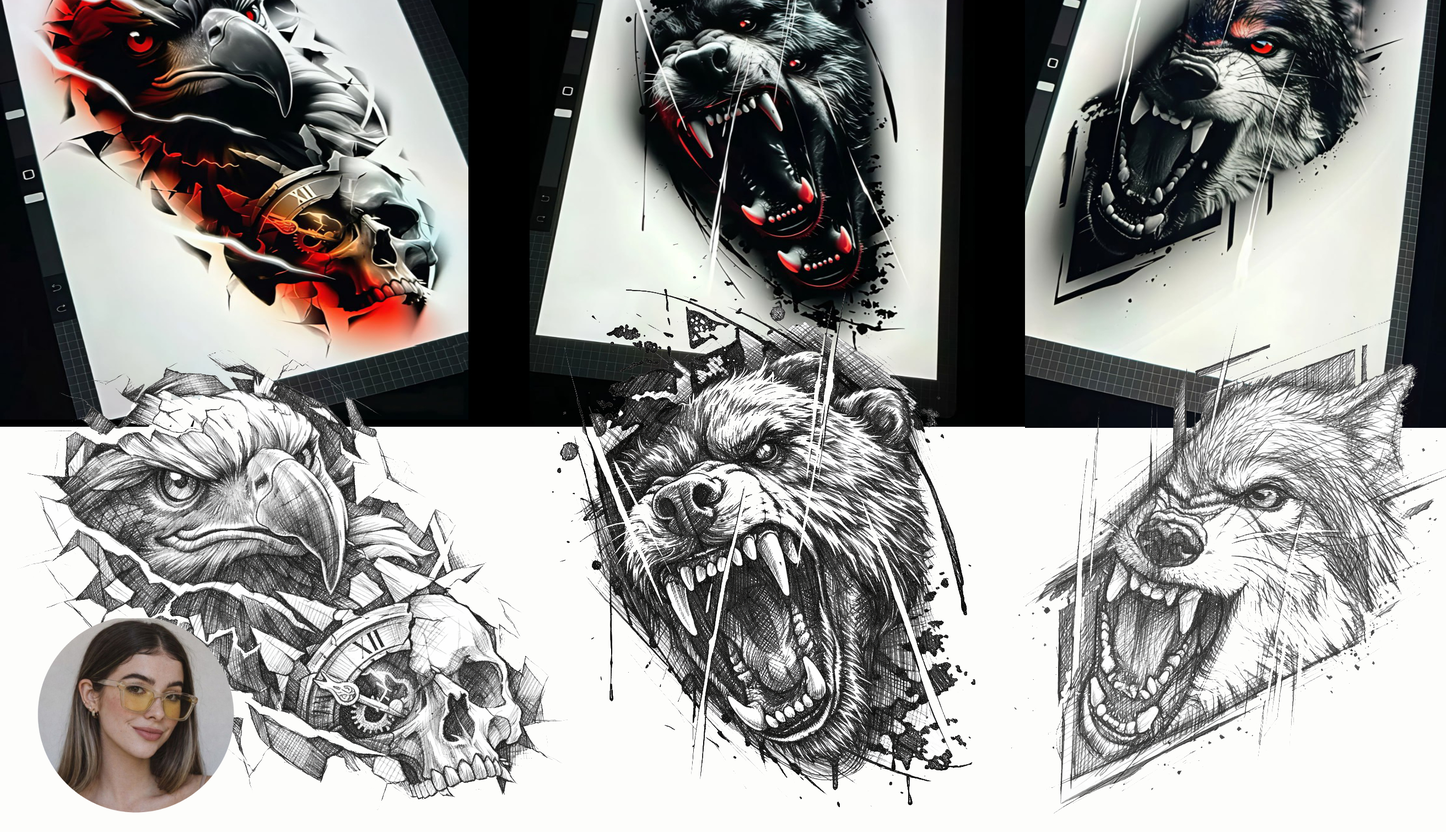
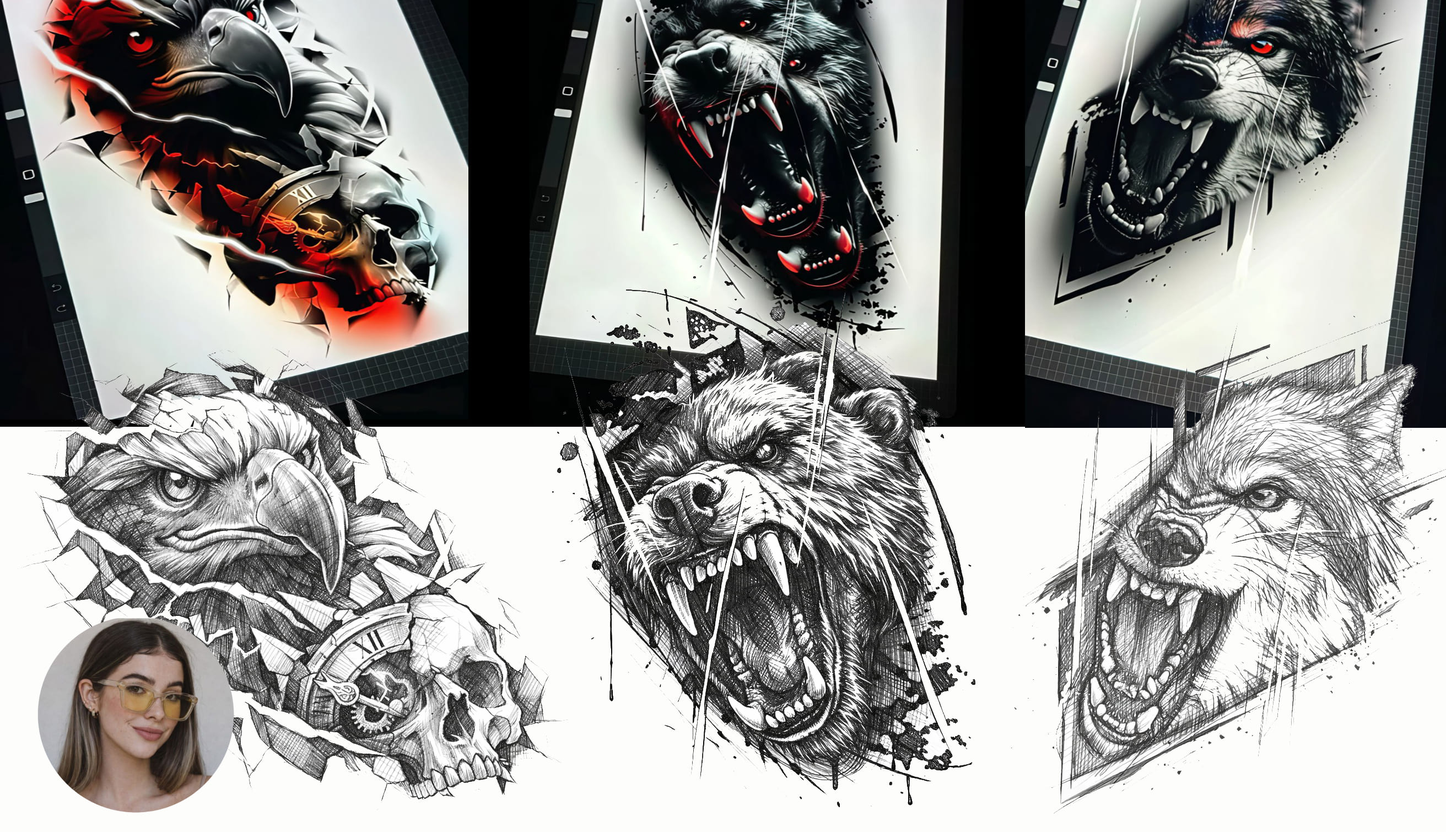
3123

Changed region(s): [[0.5312, 0.5918, 0.5625, 0.6229], [0.5, 0.4672, 0.5312, 0.4983]]

diff --git a/index.html b/index.html
@@ -165,37 +165,6 @@
       });
     </script>
 
-    <!-- Handmade Section -->
-    <section class="section" style="padding: 60px 0; background: #0a0a0a;">
-      <div class="container" data-aos="fade-up" data-aos-delay="100">
-        <div class="row align-items-center justify-content-center">
-          <div class="col-lg-6">
-            <div class="handmade-image-wrapper">
-              <img src="assets/img/gallery/123123123.jpg" alt="Ручная работа эскиза" class="img-fluid rounded" style="width: 100%; height: auto; box-shadow: 0 20px 40px rgba(0,0,0,0.5);" draggable="false" oncontextmenu="return false;" onselectstart="return false;" ondragstart="return false;">
-            </div>
-          </div>
-          <div class="col-lg-6">
-            <div class="handmade-content">
-              <h3 style="color: #fff; font-size: 2rem; margin-bottom: 20px; font-weight: 700;">Каждая деталь — ручная работа</h3>
-              <p style="color: #ccc; font-size: 1.1rem; line-height: 1.8; margin-bottom: 25px;">
-                Никаких нейросетей и генераторов. Каждый эскиз рисуется от руки — от первой линии до финального штриха. Я прорабатываю каждую деталь, каждый фрагмент, чтобы дизайн был гармоничным и точно соответствовал твоей идее.
-              </p>
-              <div style="display: flex; gap: 15px; flex-wrap: wrap;">
-                <div style="flex: 1; min-width: 200px;">
-                  <div style="color: #fff; font-weight: 600; margin-bottom: 8px;">✓ 100% ручная работа</div>
-                  <div style="color: #999; font-size: 0.9rem;">Без использования ИИ и генераторов</div>
-                </div>
-                <div style="flex: 1; min-width: 200px;">
-                  <div style="color: #fff; font-weight: 600; margin-bottom: 8px;">✓ Продуманные детали</div>
-                  <div style="color: #999; font-size: 0.9rem;">Каждый элемент согласован с общим стилем</div>
-                </div>
-              </div>
-            </div>
-          </div>
-        </div>
-      </div>
-    </section>
-
     <!-- Gallery Section -->
     <section class="section" style="padding: 50px 0;">
       <div class="container" data-aos="fade-up" data-aos-delay="80">
@@ -338,6 +307,37 @@
     
   </main>
 
+  <!-- Handmade Section -->
+  <section class="section" style="padding: 60px 0; background: #0a0a0a;">
+    <div class="container" data-aos="fade-up" data-aos-delay="100">
+      <div class="row align-items-center justify-content-center">
+        <div class="col-lg-6">
+          <div class="handmade-image-wrapper">
+            <img id="handmadeImage" src="" alt="Ручная работа эскиза" class="img-fluid rounded" style="width: 100%; height: auto; box-shadow: 0 20px 40px rgba(0,0,0,0.5);" draggable="false" oncontextmenu="return false;" onselectstart="return false;" ondragstart="return false;">
+          </div>
+        </div>
+        <div class="col-lg-6">
+          <div class="handmade-content">
+            <h3 style="color: #fff; font-size: 2rem; margin-bottom: 20px; font-weight: 700;">Каждая деталь — ручная работа</h3>
+            <p style="color: #ccc; font-size: 1.1rem; line-height: 1.8; margin-bottom: 25px;">
+              Никаких нейросетей и генераторов. Каждый эскиз рисуется от руки — от первой линии до финального штриха. Я прорабатываю каждую деталь, каждый фрагмент, чтобы дизайн был гармоничным и точно соответствовал твоей идее.
+            </p>
+            <div style="display: flex; gap: 15px; flex-wrap: wrap;">
+              <div style="flex: 1; min-width: 200px;">
+                <div style="color: #fff; font-weight: 600; margin-bottom: 8px;">✓ 100% ручная работа</div>
+                <div style="color: #999; font-size: 0.9rem;">Без использования ИИ и генераторов</div>
+              </div>
+              <div style="flex: 1; min-width: 200px;">
+                <div style="color: #fff; font-weight: 600; margin-bottom: 8px;">✓ Продуманные детали</div>
+                <div style="color: #999; font-size: 0.9rem;">Каждый элемент согласован с общим стилем</div>
+              </div>
+            </div>
+          </div>
+        </div>
+      </div>
+    </div>
+  </section>
+
   <footer id="footer" class="footer">
 
     <div class="container">
@@ -444,6 +444,12 @@
   <script>
     window.addEventListener('load', function() {
       setTimeout(function() {
+        // Загружаем изображение с задержкой 2 секунды
+        const handmadeImage = document.getElementById("handmadeImage");
+        if (handmadeImage) {
+          handmadeImage.src = "assets/img/gallery/123123123.jpg";
+        }
+        
         // Top.Mail.Ru counter - DISABLED for performance
         /*
         var _tmr = window._tmr || (window._tmr = []);
